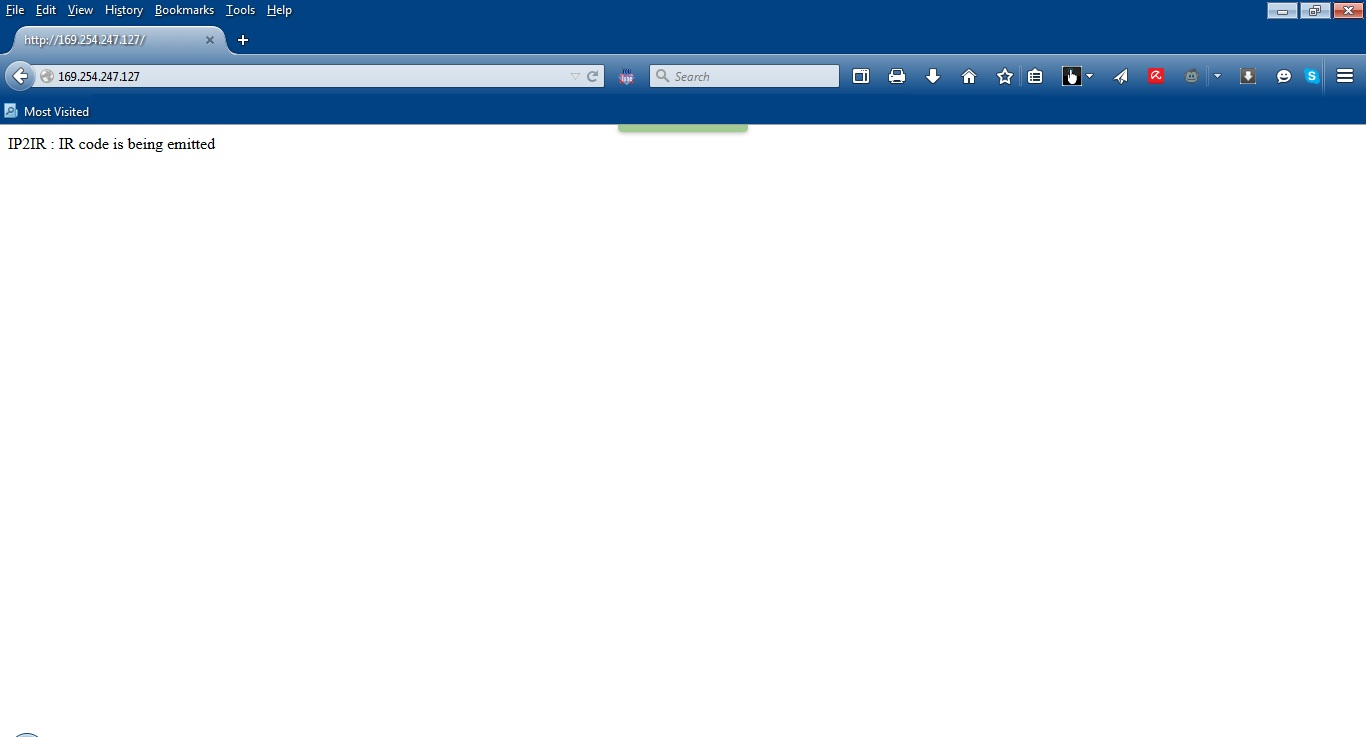
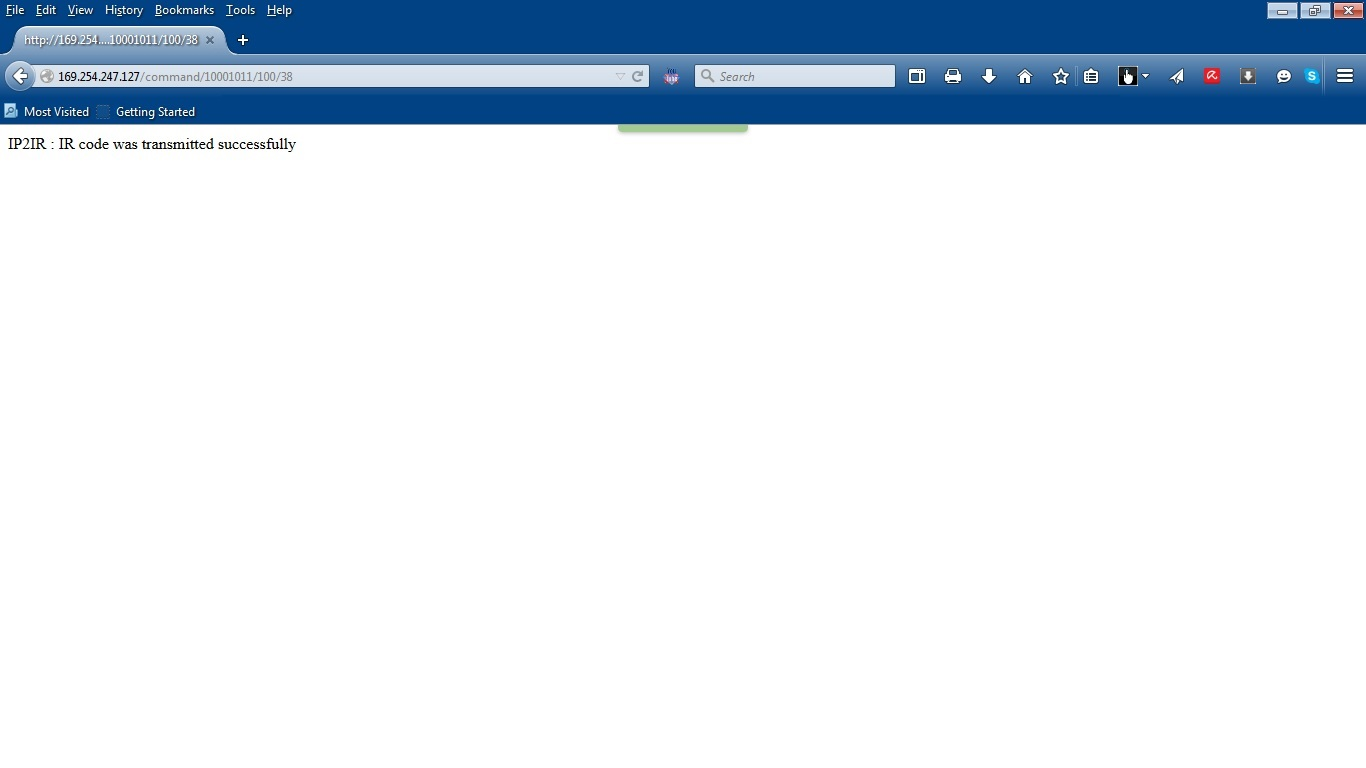
Arun, Umair

Changed region(s): [[0.0, 0.0, 1.0, 0.2185], [0.9224, 0.0, 1.0, 0.0312], [0.0, 0.9986, 0.0307, 1.0]]

diff --git a/README.md b/README.md
@@ -4,7 +4,7 @@ Arduino Sketches for CES Lab
 # IP2IR
 This program sends IR signals using Arduino Ethernet corresponding to get requests from a web server.
 
-## Version - 1.00
+## Version - 2.00
 
 ## Folders: 
 1. Design - Schematic Circuit Diagram
@@ -21,16 +21,21 @@ This program sends IR signals using Arduino Ethernet corresponding to get reques
 3. Extract the zip file 
 4. Move the "IRremote" folder that has been extracted to your libraries directory already.
 
-## Current Implementation Details:
-The current implementation sends sample IR code whenever a get request is received from web server.
+## Implementation details:
+The current implementation sends raw IR code whenever a get request is received from web server. <br />
+The format of get request is :  <ip of Arduino>/command/<code>/<repeat-time>/<frequency>.  <br />
 
-## Further Implementation: 
-1. Issuing different commands on get request.
-2. Switch case for different consumer devices.
+## Further Extensions possible: 
+1. Issuing different vendor specific codes on get request.
+2. Switch case for different vendor specific consumer devices.
 
-## Testing Serial Communication
-This can be done using a loopback test in Windows Hyperterminal.
+## Testing Serial Communication:
+This can be done using a loopback test in Windows Hyperterminal or Arduino Serial Monitor.
 Screenshots provided in the Testing folder
+
+## Troubleshooting:
+1. Get request does not reach Arduino - Try pinging the Arduino IP to check if connection is okay.
+2. Serial connection to Arduino does not work when Hyperterminal is being used to monitor.
 
 ## Contributors
 Arun Sachidanandan  <br />
